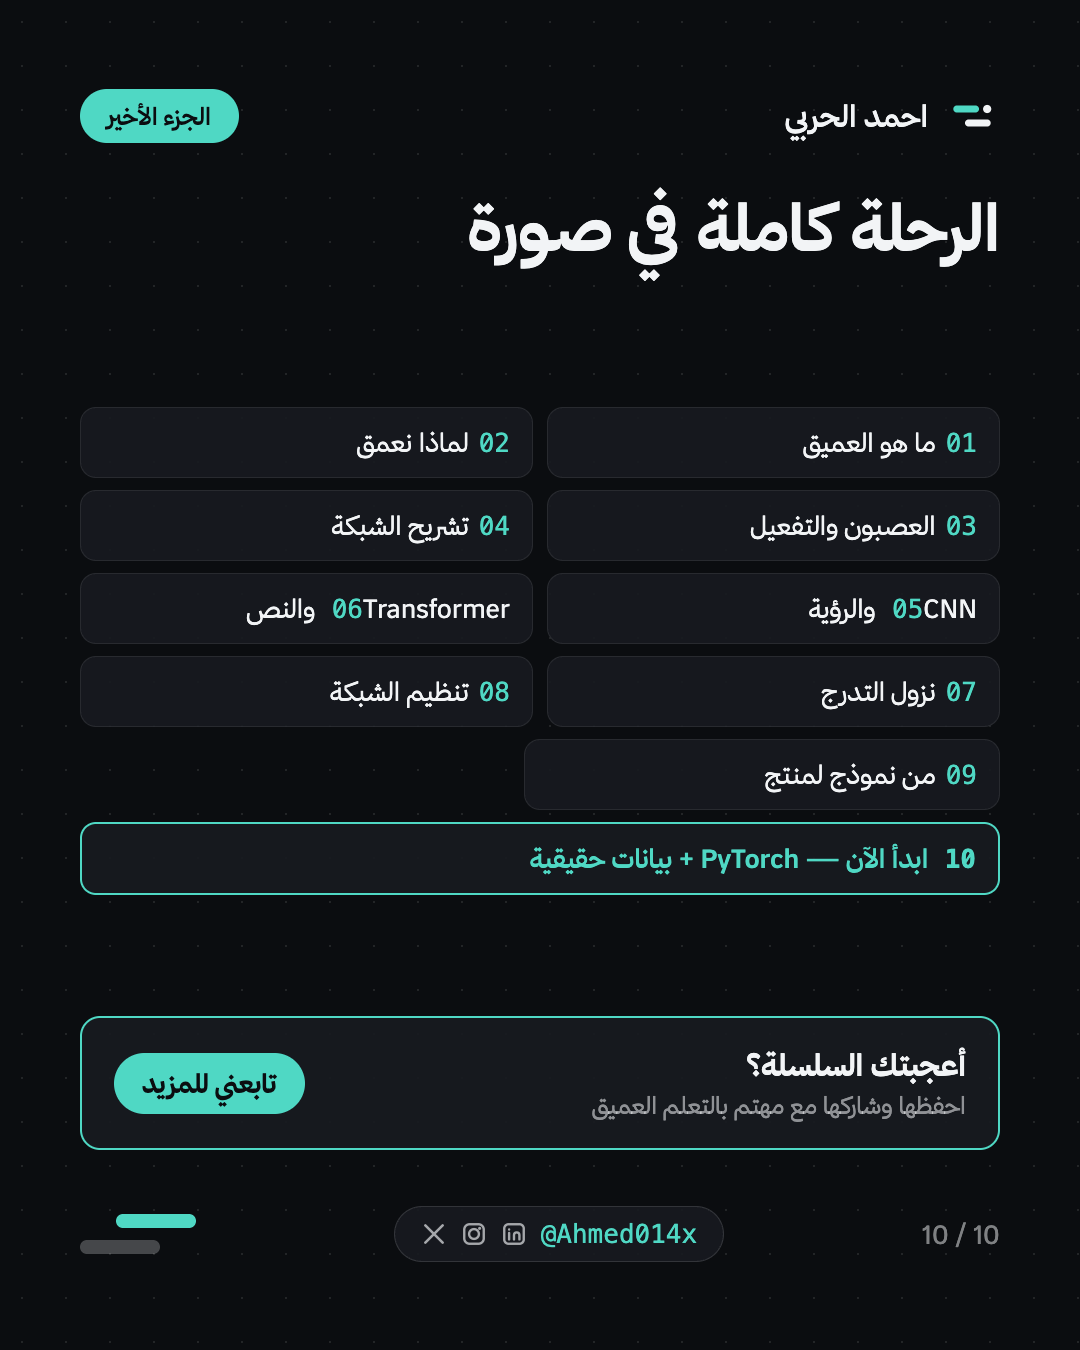
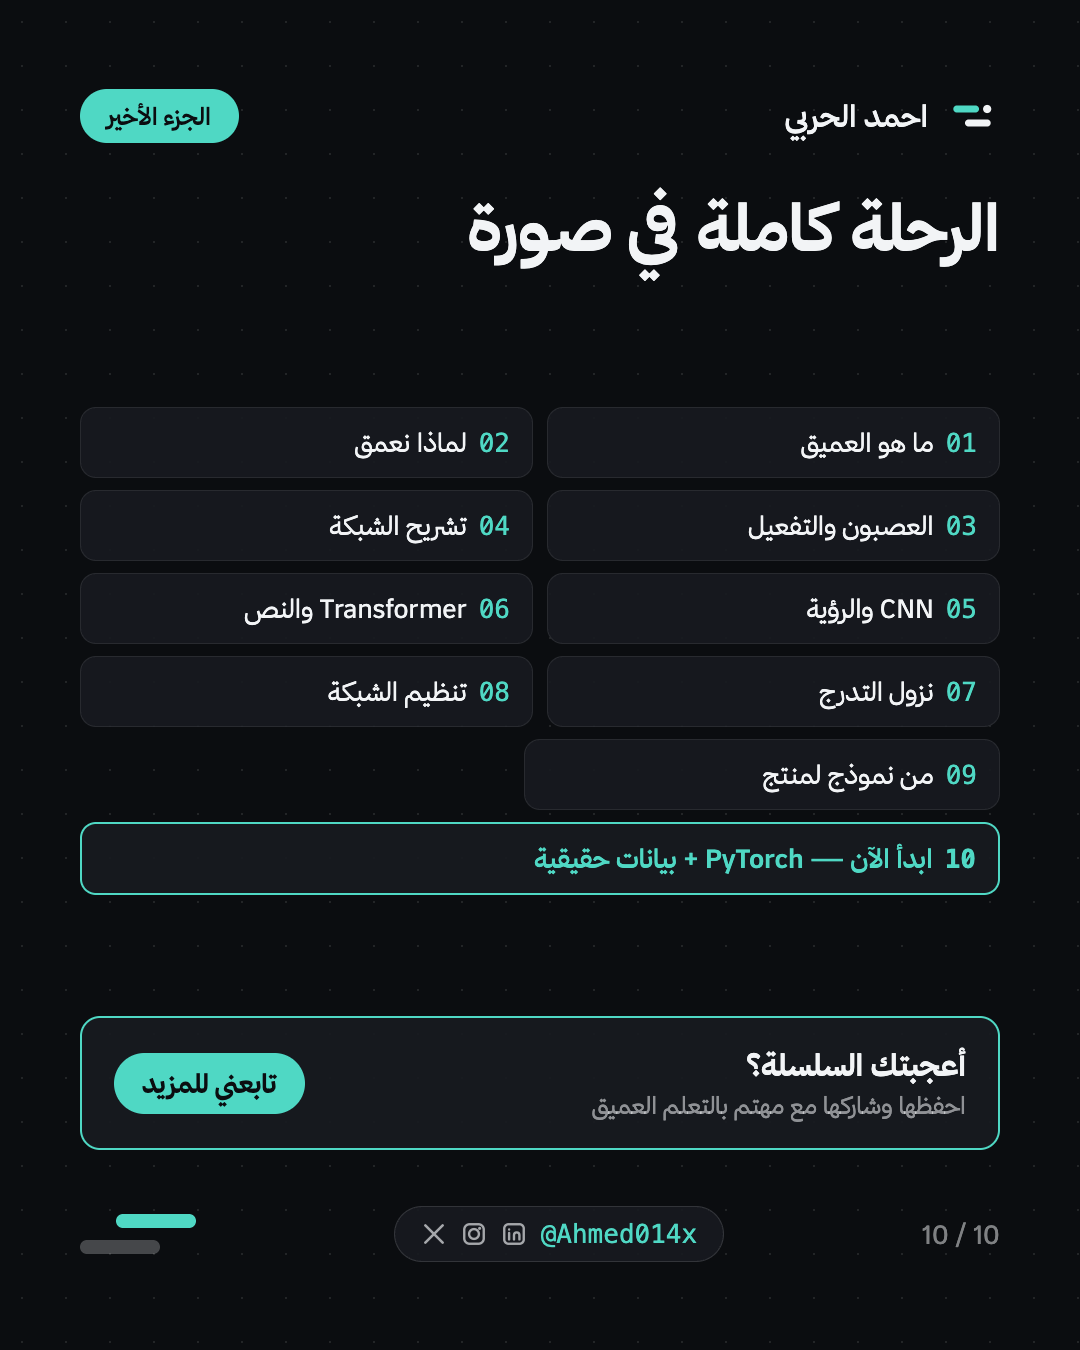
Refactor HTML structure for deep learning section by enhancing button layouts and improving visual consistency. Update PNG asset for better alignment with new design standards.

diff --git a/brand-package/html/سلسلة-التعلم-العميق.html b/brand-package/html/سلسلة-التعلم-العميق.html
@@ -314,10 +314,29 @@ body{margin:0;background:#171a1f;font-family:'Thmanyah Sans',sans-serif}
     <div style="font-size:64px;font-weight:700;color:#f2f4f6;line-height:1.35">الرحلة كاملة في صورة</div>
   </div>
   <div style="flex:1;display:flex;flex-direction:column;justify-content:center;gap:12px;margin-top:24px">
-    <div style="display:flex;gap:14px"><div style="flex:1;background:rgba(23,26,31,.9);border:1px solid rgba(255,255,255,.08);border-radius:16px;padding:18px 22px;font-size:26px;color:#f2f4f6"><span style="color:#4fd8c4;font-family:ui-monospace,monospace;margin-left:10px">01</span>ما هو العميق</div><div style="flex:1;background:rgba(23,26,31,.9);border:1px solid rgba(255,255,255,.08);border-radius:16px;padding:18px 22px;font-size:26px;color:#f2f4f6"><span style="color:#4fd8c4;font-family:ui-monospace,monospace;margin-left:10px">02</span>لماذا نعمق</div></div><div style="display:flex;gap:14px"><div style="flex:1;background:rgba(23,26,31,.9);border:1px solid rgba(255,255,255,.08);border-radius:16px;padding:18px 22px;font-size:26px;color:#f2f4f6"><span style="color:#4fd8c4;font-family:ui-monospace,monospace;margin-left:10px">03</span>العصبون والتفعيل</div><div style="flex:1;background:rgba(23,26,31,.9);border:1px solid rgba(255,255,255,.08);border-radius:16px;padding:18px 22px;font-size:26px;color:#f2f4f6"><span style="color:#4fd8c4;font-family:ui-monospace,monospace;margin-left:10px">04</span>تشريح الشبكة</div></div><div style="display:flex;gap:14px"><div style="flex:1;background:rgba(23,26,31,.9);border:1px solid rgba(255,255,255,.08);border-radius:16px;padding:18px 22px;font-size:26px;color:#f2f4f6"><span style="color:#4fd8c4;font-family:ui-monospace,monospace;margin-left:10px">05</span>CNN والرؤية</div><div style="flex:1;background:rgba(23,26,31,.9);border:1px solid rgba(255,255,255,.08);border-radius:16px;padding:18px 22px;font-size:26px;color:#f2f4f6"><span style="color:#4fd8c4;font-family:ui-monospace,monospace;margin-left:10px">06</span>Transformer والنص</div></div><div style="display:flex;gap:14px"><div style="flex:1;background:rgba(23,26,31,.9);border:1px solid rgba(255,255,255,.08);border-radius:16px;padding:18px 22px;font-size:26px;color:#f2f4f6"><span style="color:#4fd8c4;font-family:ui-monospace,monospace;margin-left:10px">07</span>نزول التدرج</div><div style="flex:1;background:rgba(23,26,31,.9);border:1px solid rgba(255,255,255,.08);border-radius:16px;padding:18px 22px;font-size:26px;color:#f2f4f6"><span style="color:#4fd8c4;font-family:ui-monospace,monospace;margin-left:10px">08</span>تنظيم الشبكة</div></div><div style="display:flex;gap:14px"><div style="flex:1;background:rgba(23,26,31,.9);border:1px solid rgba(255,255,255,.08);border-radius:16px;padding:18px 22px;font-size:26px;color:#f2f4f6"><span style="color:#4fd8c4;font-family:ui-monospace,monospace;margin-left:10px">09</span>من نموذج لمنتج</div><div style="flex:1"></div></div>
-    <div style="background:rgba(23,26,31,.9);border:2px solid #4fd8c4;border-radius:16px;padding:18px 22px;font-size:26px;color:#4fd8c4;font-weight:600">
-      <span style="font-family:ui-monospace,monospace;margin-left:10px">10</span>
-      ابدأ الآن — PyTorch + بيانات حقيقية
+    <div style="display:flex;gap:14px">
+      <div style="flex:1;background:rgba(23,26,31,.9);border:1px solid rgba(255,255,255,.08);border-radius:16px;padding:18px 22px;font-size:26px;color:#f2f4f6;display:flex;align-items:center;gap:12px"><span style="color:#4fd8c4;font-family:ui-monospace,monospace;flex-shrink:0">01</span><span>ما هو العميق</span></div>
+      <div style="flex:1;background:rgba(23,26,31,.9);border:1px solid rgba(255,255,255,.08);border-radius:16px;padding:18px 22px;font-size:26px;color:#f2f4f6;display:flex;align-items:center;gap:12px"><span style="color:#4fd8c4;font-family:ui-monospace,monospace;flex-shrink:0">02</span><span>لماذا نعمق</span></div>
+    </div>
+    <div style="display:flex;gap:14px">
+      <div style="flex:1;background:rgba(23,26,31,.9);border:1px solid rgba(255,255,255,.08);border-radius:16px;padding:18px 22px;font-size:26px;color:#f2f4f6;display:flex;align-items:center;gap:12px"><span style="color:#4fd8c4;font-family:ui-monospace,monospace;flex-shrink:0">03</span><span>العصبون والتفعيل</span></div>
+      <div style="flex:1;background:rgba(23,26,31,.9);border:1px solid rgba(255,255,255,.08);border-radius:16px;padding:18px 22px;font-size:26px;color:#f2f4f6;display:flex;align-items:center;gap:12px"><span style="color:#4fd8c4;font-family:ui-monospace,monospace;flex-shrink:0">04</span><span>تشريح الشبكة</span></div>
+    </div>
+    <div style="display:flex;gap:14px">
+      <div style="flex:1;background:rgba(23,26,31,.9);border:1px solid rgba(255,255,255,.08);border-radius:16px;padding:18px 22px;font-size:26px;color:#f2f4f6;display:flex;align-items:center;gap:12px"><span style="color:#4fd8c4;font-family:ui-monospace,monospace;flex-shrink:0">05</span><span>CNN والرؤية</span></div>
+      <div style="flex:1;background:rgba(23,26,31,.9);border:1px solid rgba(255,255,255,.08);border-radius:16px;padding:18px 22px;font-size:26px;color:#f2f4f6;display:flex;align-items:center;gap:12px"><span style="color:#4fd8c4;font-family:ui-monospace,monospace;flex-shrink:0">06</span><span>Transformer والنص</span></div>
+    </div>
+    <div style="display:flex;gap:14px">
+      <div style="flex:1;background:rgba(23,26,31,.9);border:1px solid rgba(255,255,255,.08);border-radius:16px;padding:18px 22px;font-size:26px;color:#f2f4f6;display:flex;align-items:center;gap:12px"><span style="color:#4fd8c4;font-family:ui-monospace,monospace;flex-shrink:0">07</span><span>نزول التدرج</span></div>
+      <div style="flex:1;background:rgba(23,26,31,.9);border:1px solid rgba(255,255,255,.08);border-radius:16px;padding:18px 22px;font-size:26px;color:#f2f4f6;display:flex;align-items:center;gap:12px"><span style="color:#4fd8c4;font-family:ui-monospace,monospace;flex-shrink:0">08</span><span>تنظيم الشبكة</span></div>
+    </div>
+    <div style="display:flex;gap:14px">
+      <div style="flex:1;background:rgba(23,26,31,.9);border:1px solid rgba(255,255,255,.08);border-radius:16px;padding:18px 22px;font-size:26px;color:#f2f4f6;display:flex;align-items:center;gap:12px"><span style="color:#4fd8c4;font-family:ui-monospace,monospace;flex-shrink:0">09</span><span>من نموذج لمنتج</span></div>
+      <div style="flex:1"></div>
+    </div>
+    <div style="background:rgba(23,26,31,.9);border:2px solid #4fd8c4;border-radius:16px;padding:18px 22px;font-size:26px;color:#4fd8c4;font-weight:600;display:flex;align-items:center;gap:12px">
+      <span style="font-family:ui-monospace,monospace;flex-shrink:0">10</span>
+      <span>ابدأ الآن — PyTorch + بيانات حقيقية</span>
     </div>
   </div>
   <div style="display:flex;align-items:center;justify-content:space-between;gap:20px;background:rgba(23,26,31,.9);border:2px solid #4fd8c4;border-radius:20px;padding:28px 32px;margin-top:8px">
